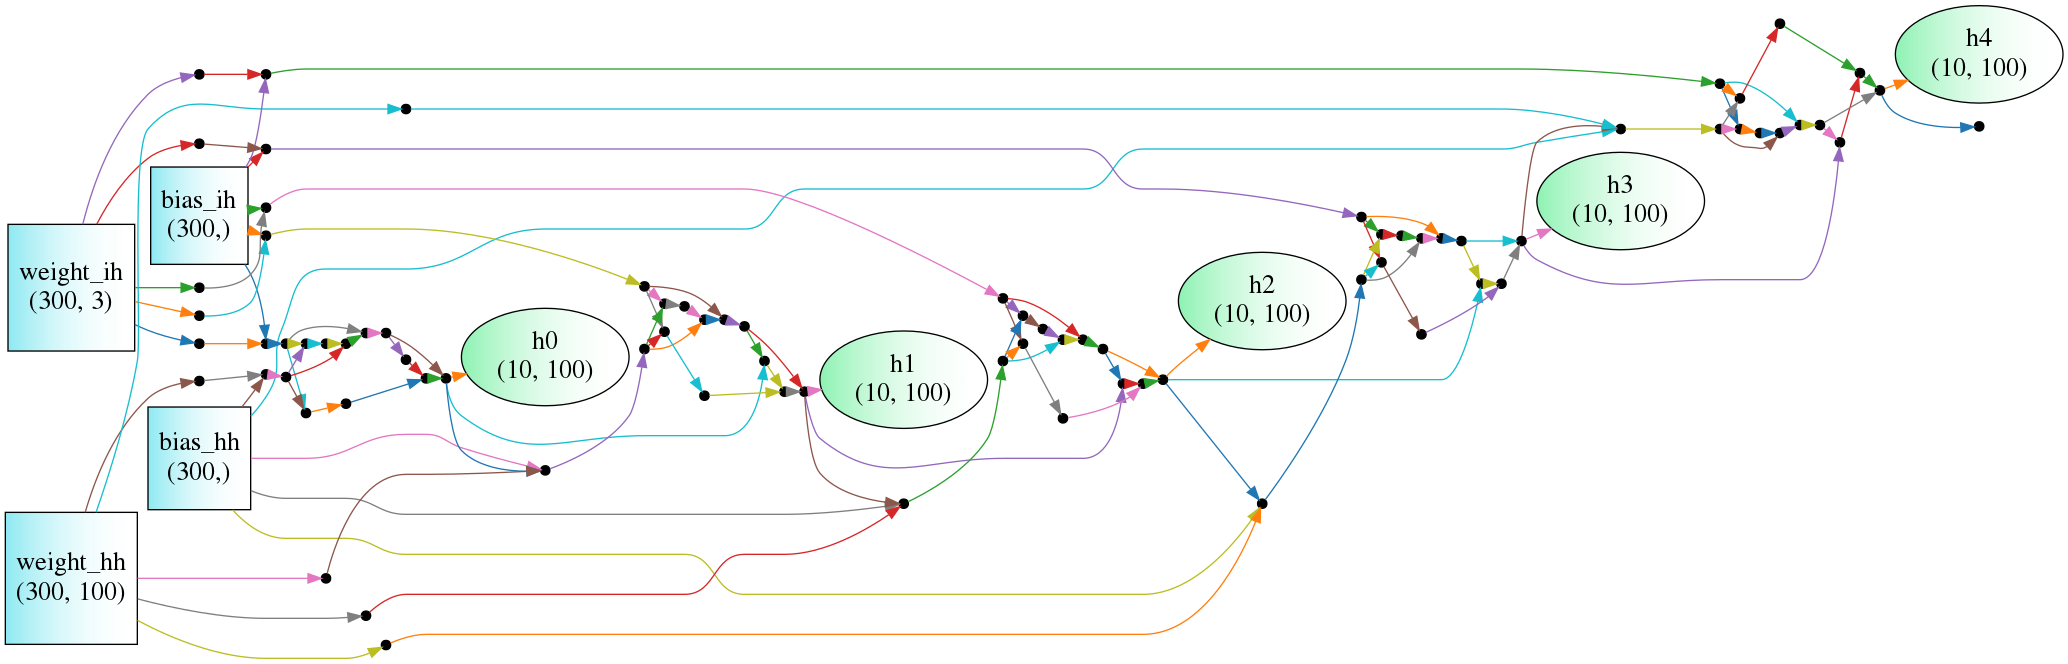
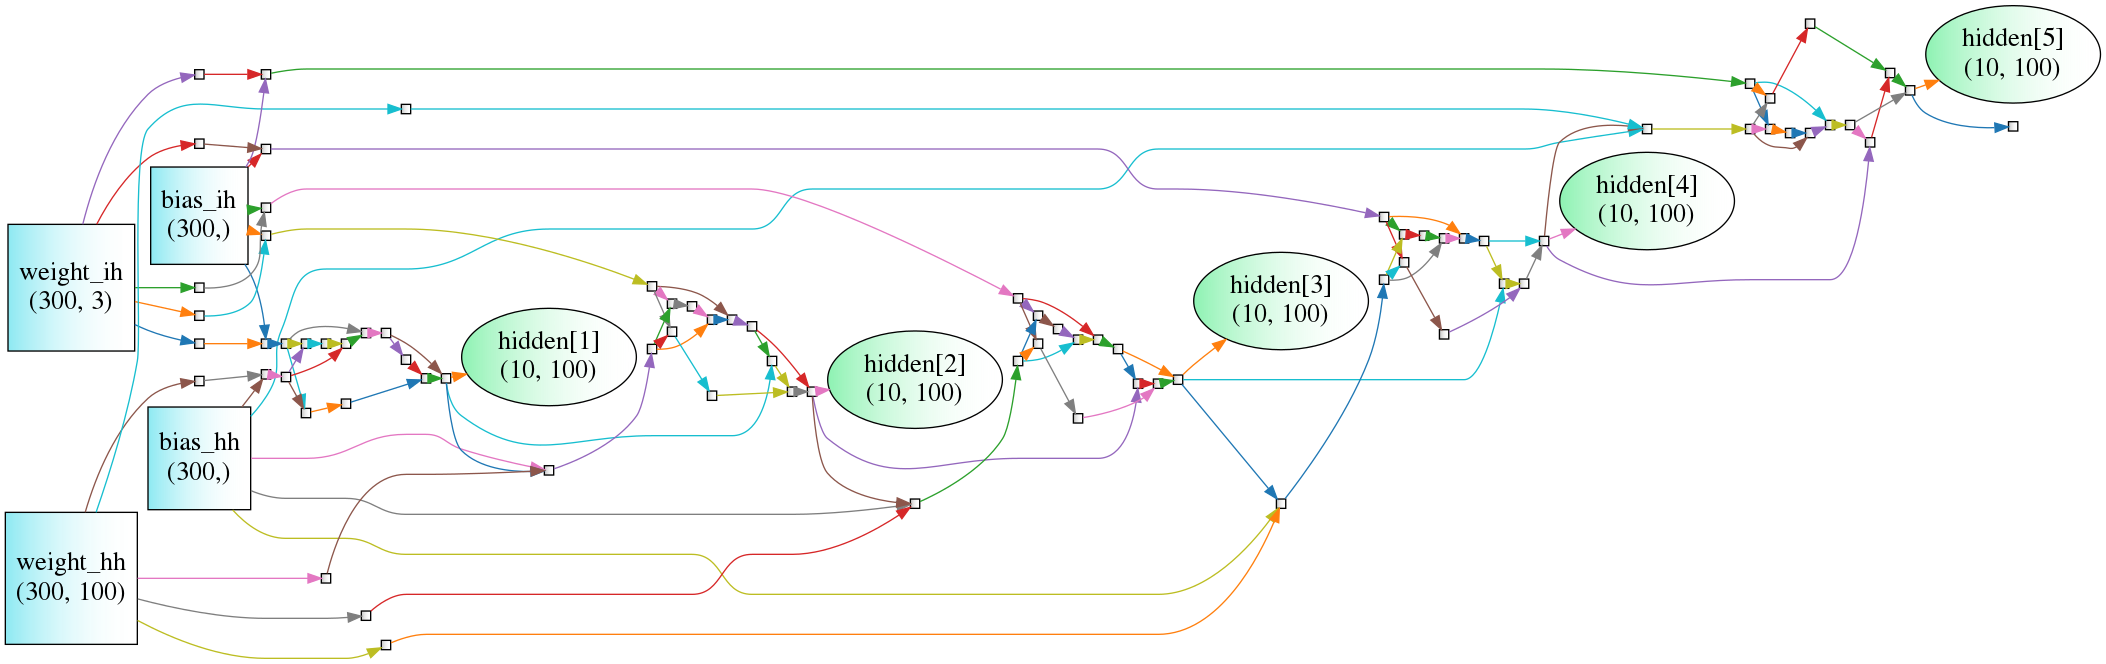
small tweaks

diff --git a/examples/rnn/main.py b/examples/rnn/main.py
@@ -15,10 +15,12 @@ if __name__ == '__main__':
     cell = torch.nn.RNNCell(3, 100) # 3 = inp dim, 100 = hidden dim.
     hjs = eval_to_list(cell, inputs)
     render(hjs[-1].sum(), {
-            **{f'h{j}': (hj, 'state') for j, hj in enumerate(hjs)},                # State of GRU 
+            **{f'hidden[{j+1}]': (hj, 'state') for j, hj in enumerate(hjs)},                # State of GRU 
             **{name: (param, 'param') for name, param in cell.named_parameters()}  # GRU params
             },
             'example_ag_viz',
             fmt = 'png',
+            penwidth = '10',
+            color_edges = False,
             simplify = []# Don't simplify anything.
     )

diff --git a/examples/gru/main.py b/examples/gru/main.py
@@ -15,7 +15,7 @@ if __name__ == '__main__':
     cell = torch.nn.GRUCell(3, 100) # 3 = inp dim, 100 = hidden dim.
     hjs = eval_to_list(cell, inputs)
     render(hjs[-1].sum(), {
-            **{f'h{j}': (hj, 'state') for j, hj in enumerate(hjs)},                # State of GRU 
+            **{f'hidden[{j+1}]': (hj, 'state') for j, hj in enumerate(hjs)},                # State of GRU 
             **{name: (param, 'param') for name, param in cell.named_parameters()}  # GRU params
             },
             'example_ag_viz',
